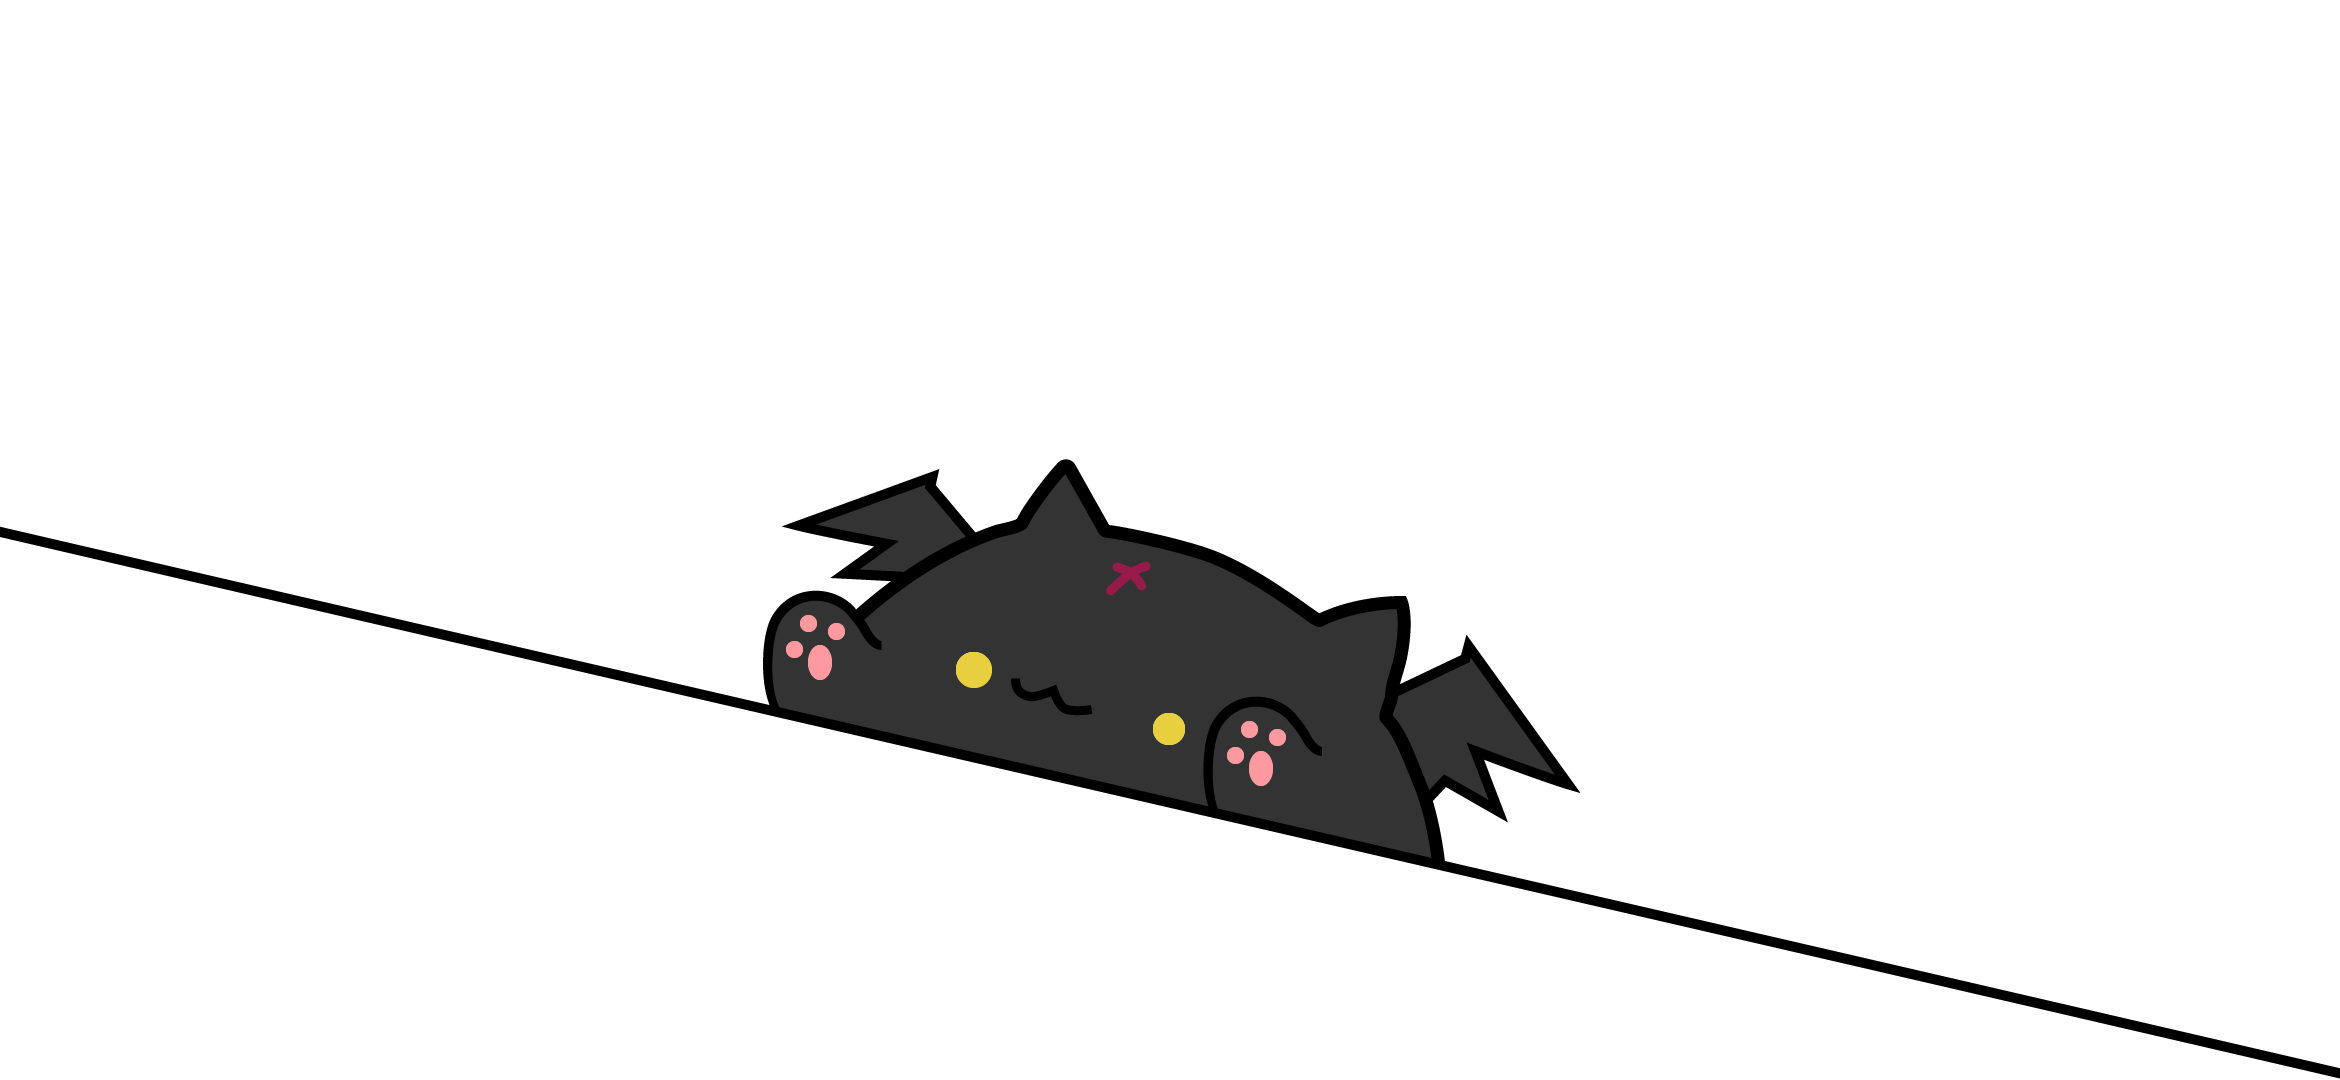
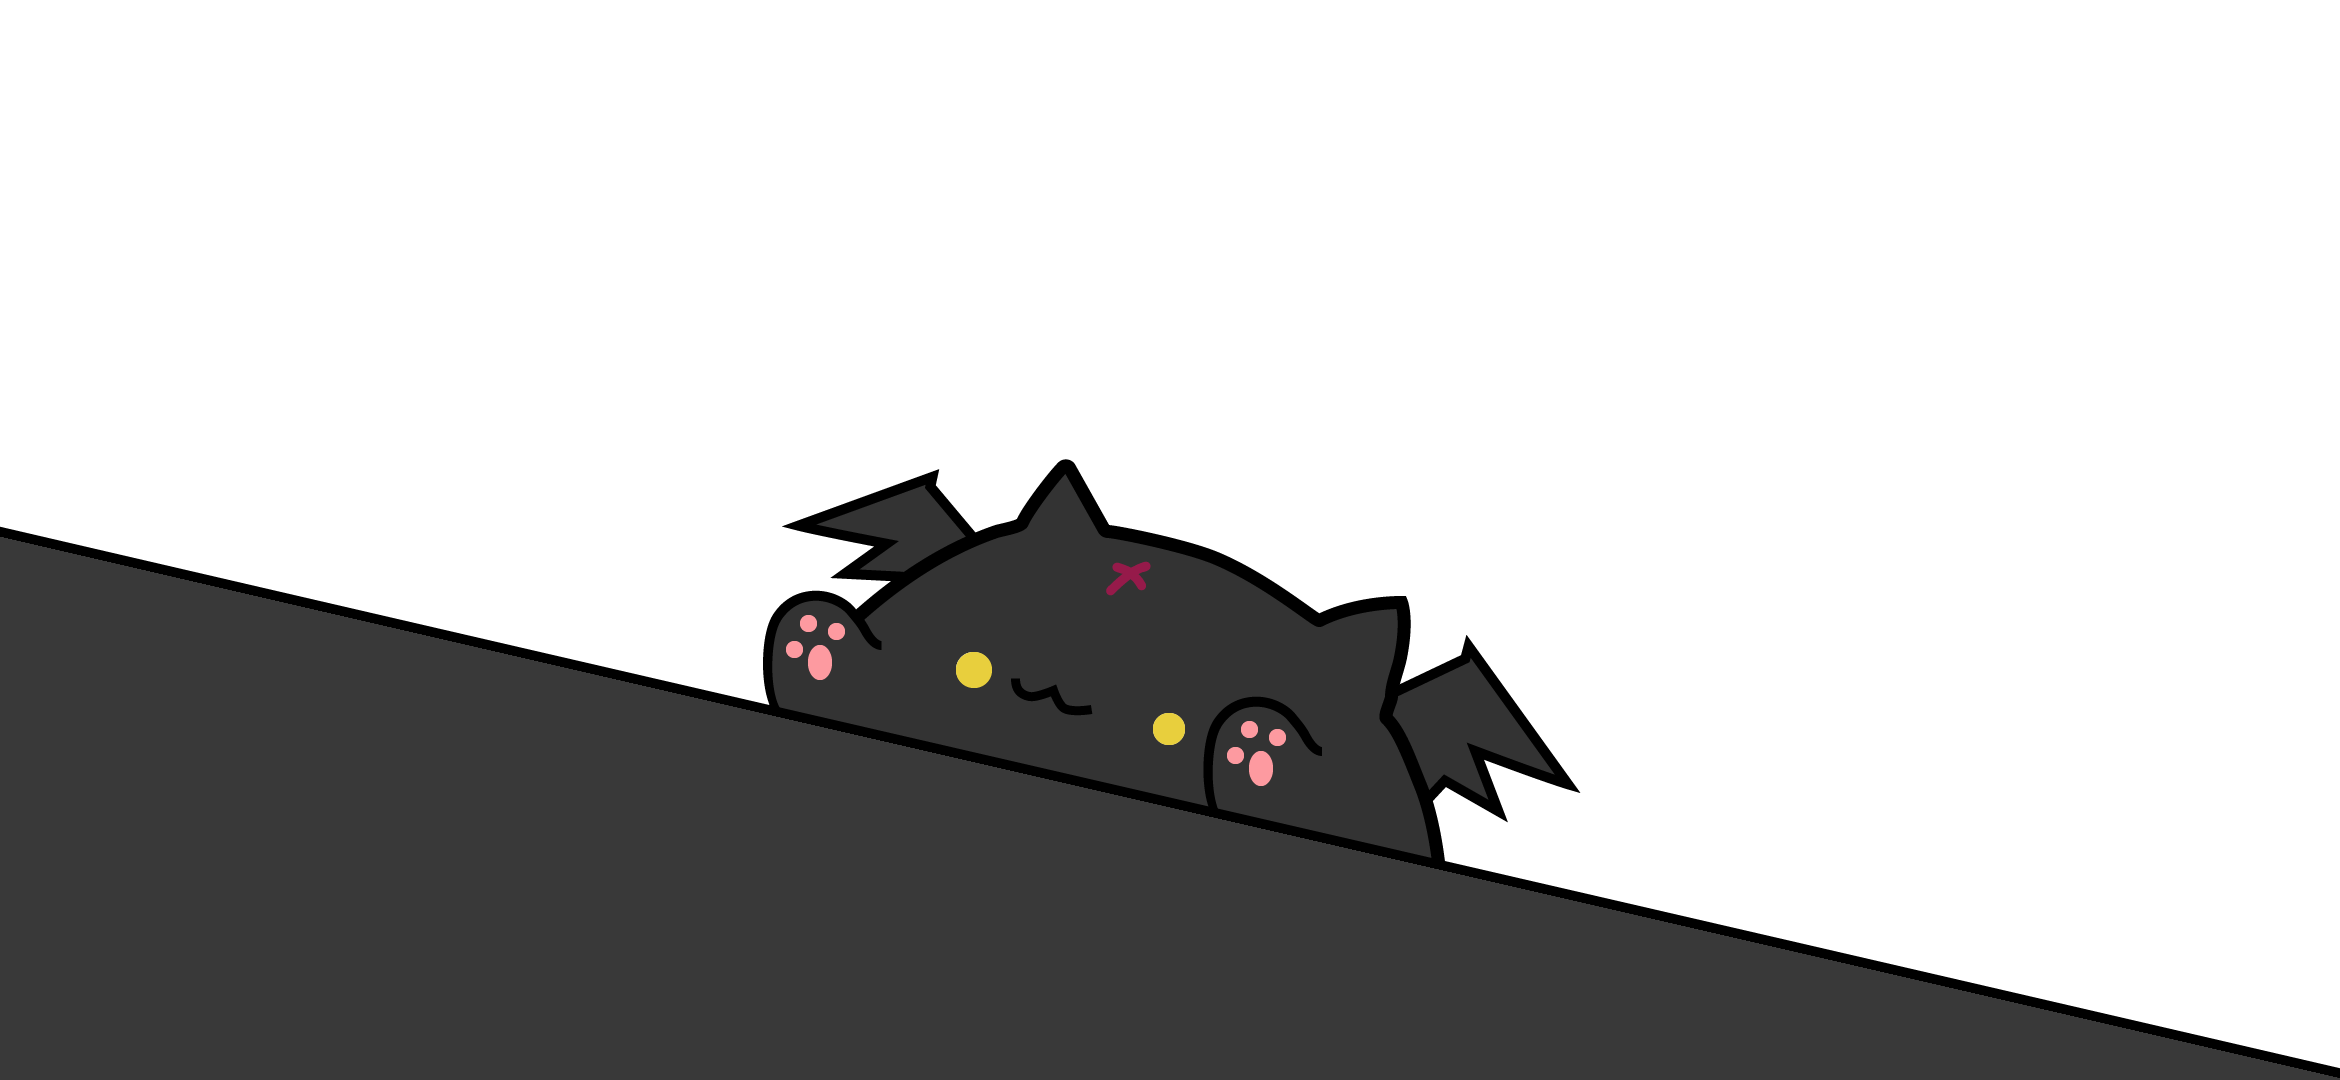
Better Megumin Theme
This is a better version of Megumin's theme

Changed region(s): [[0.0, 0.4889, 0.9983, 1.0]]

diff --git a/lib/themes/Themes.dart b/lib/themes/Themes.dart
@@ -75,11 +75,11 @@ Map<String, KBThemeData> THEMES = {
           const TextStyle(fontWeight: FontWeight.bold, fontFamily: "CatCafe"),
       appTheme: ThemeData(
         brightness: Brightness.light,
-        backgroundColor: Color(0xFFf42a24),
+        backgroundColor: Color(0xFF9c4347),
         primarySwatch: Colors.blue,
         primaryColor: Colors.blue[500],
       ),
-      tablecolor: Colors.white),
+      tablecolor: Color(0xFF393939)),
   "dark": KBThemeData(
       images: [
         'assets/default_dark/BongoCat2.png',
